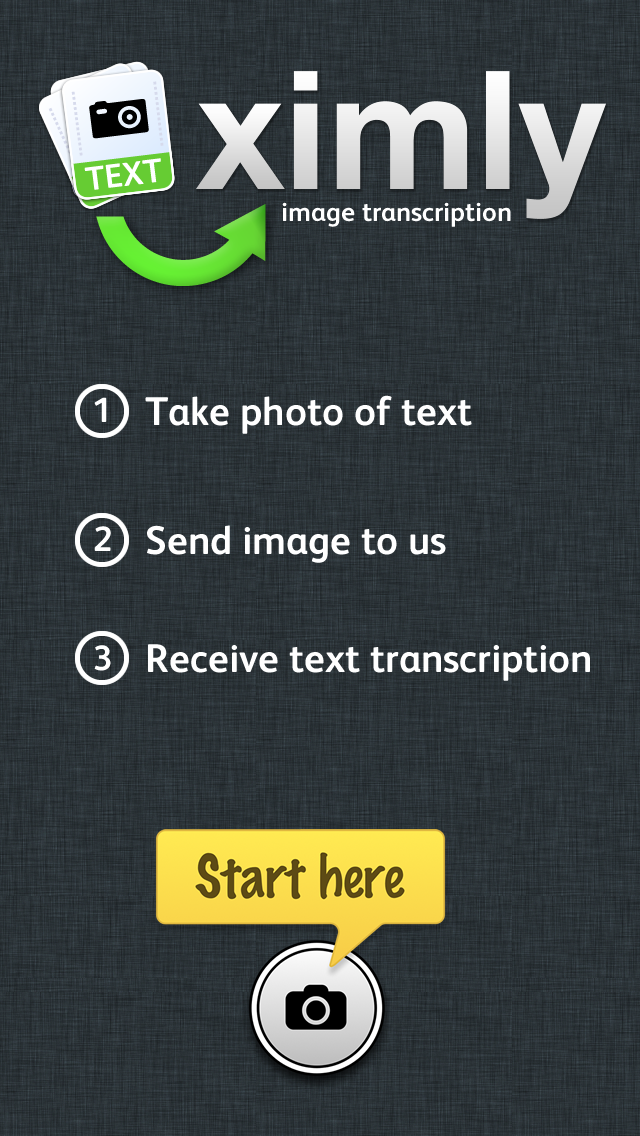
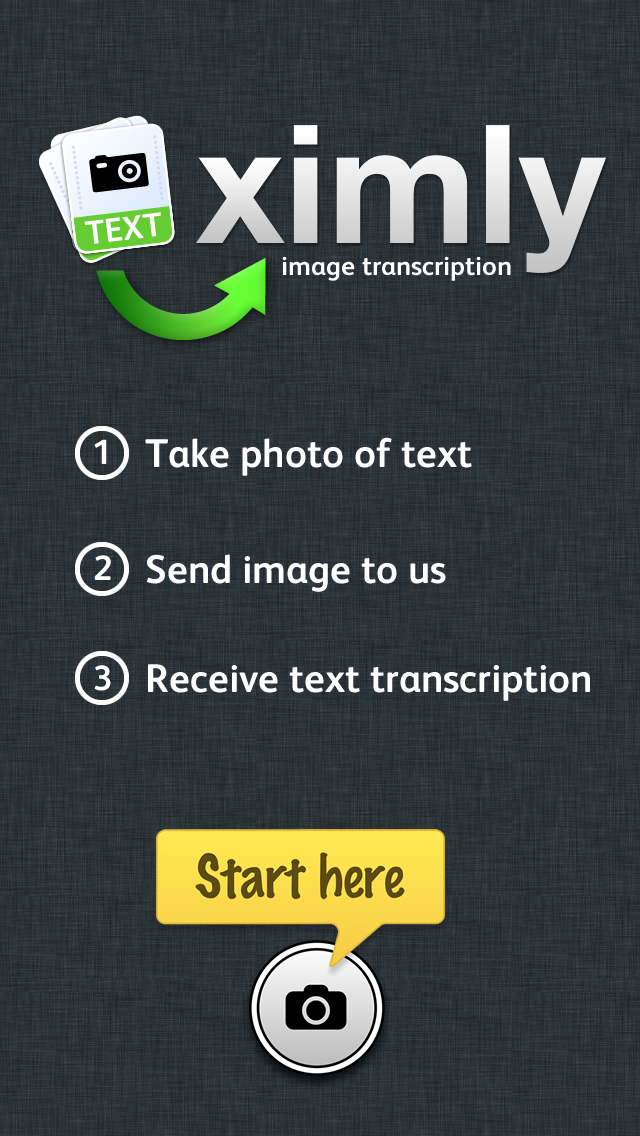
New intro page images with elements shifted down to take the status bar into account

Changed region(s): [[0.0625, 0.0308, 0.9375, 0.3081], [0.0938, 0.3389, 0.75, 0.5238], [0.0938, 0.5546, 0.9375, 0.6162]]

diff --git a/iOS/Ximly/Ximly/XMIntroViewController.m b/iOS/Ximly/Ximly/XMIntroViewController.m
@@ -36,7 +36,7 @@
     
     if (screenHeight == 480.0) {
         self.backgroundImageView.image = [UIImage imageNamed:@"Default.png"];
-    } else if (screenHeight) {
+    } else if (screenHeight == 960.0) {
         self.backgroundImageView.image = [UIImage imageNamed:@"Default@2x.png"];
     } else {
         self.backgroundImageView.image = [UIImage imageNamed:@"Default-568h@2x.png"];
